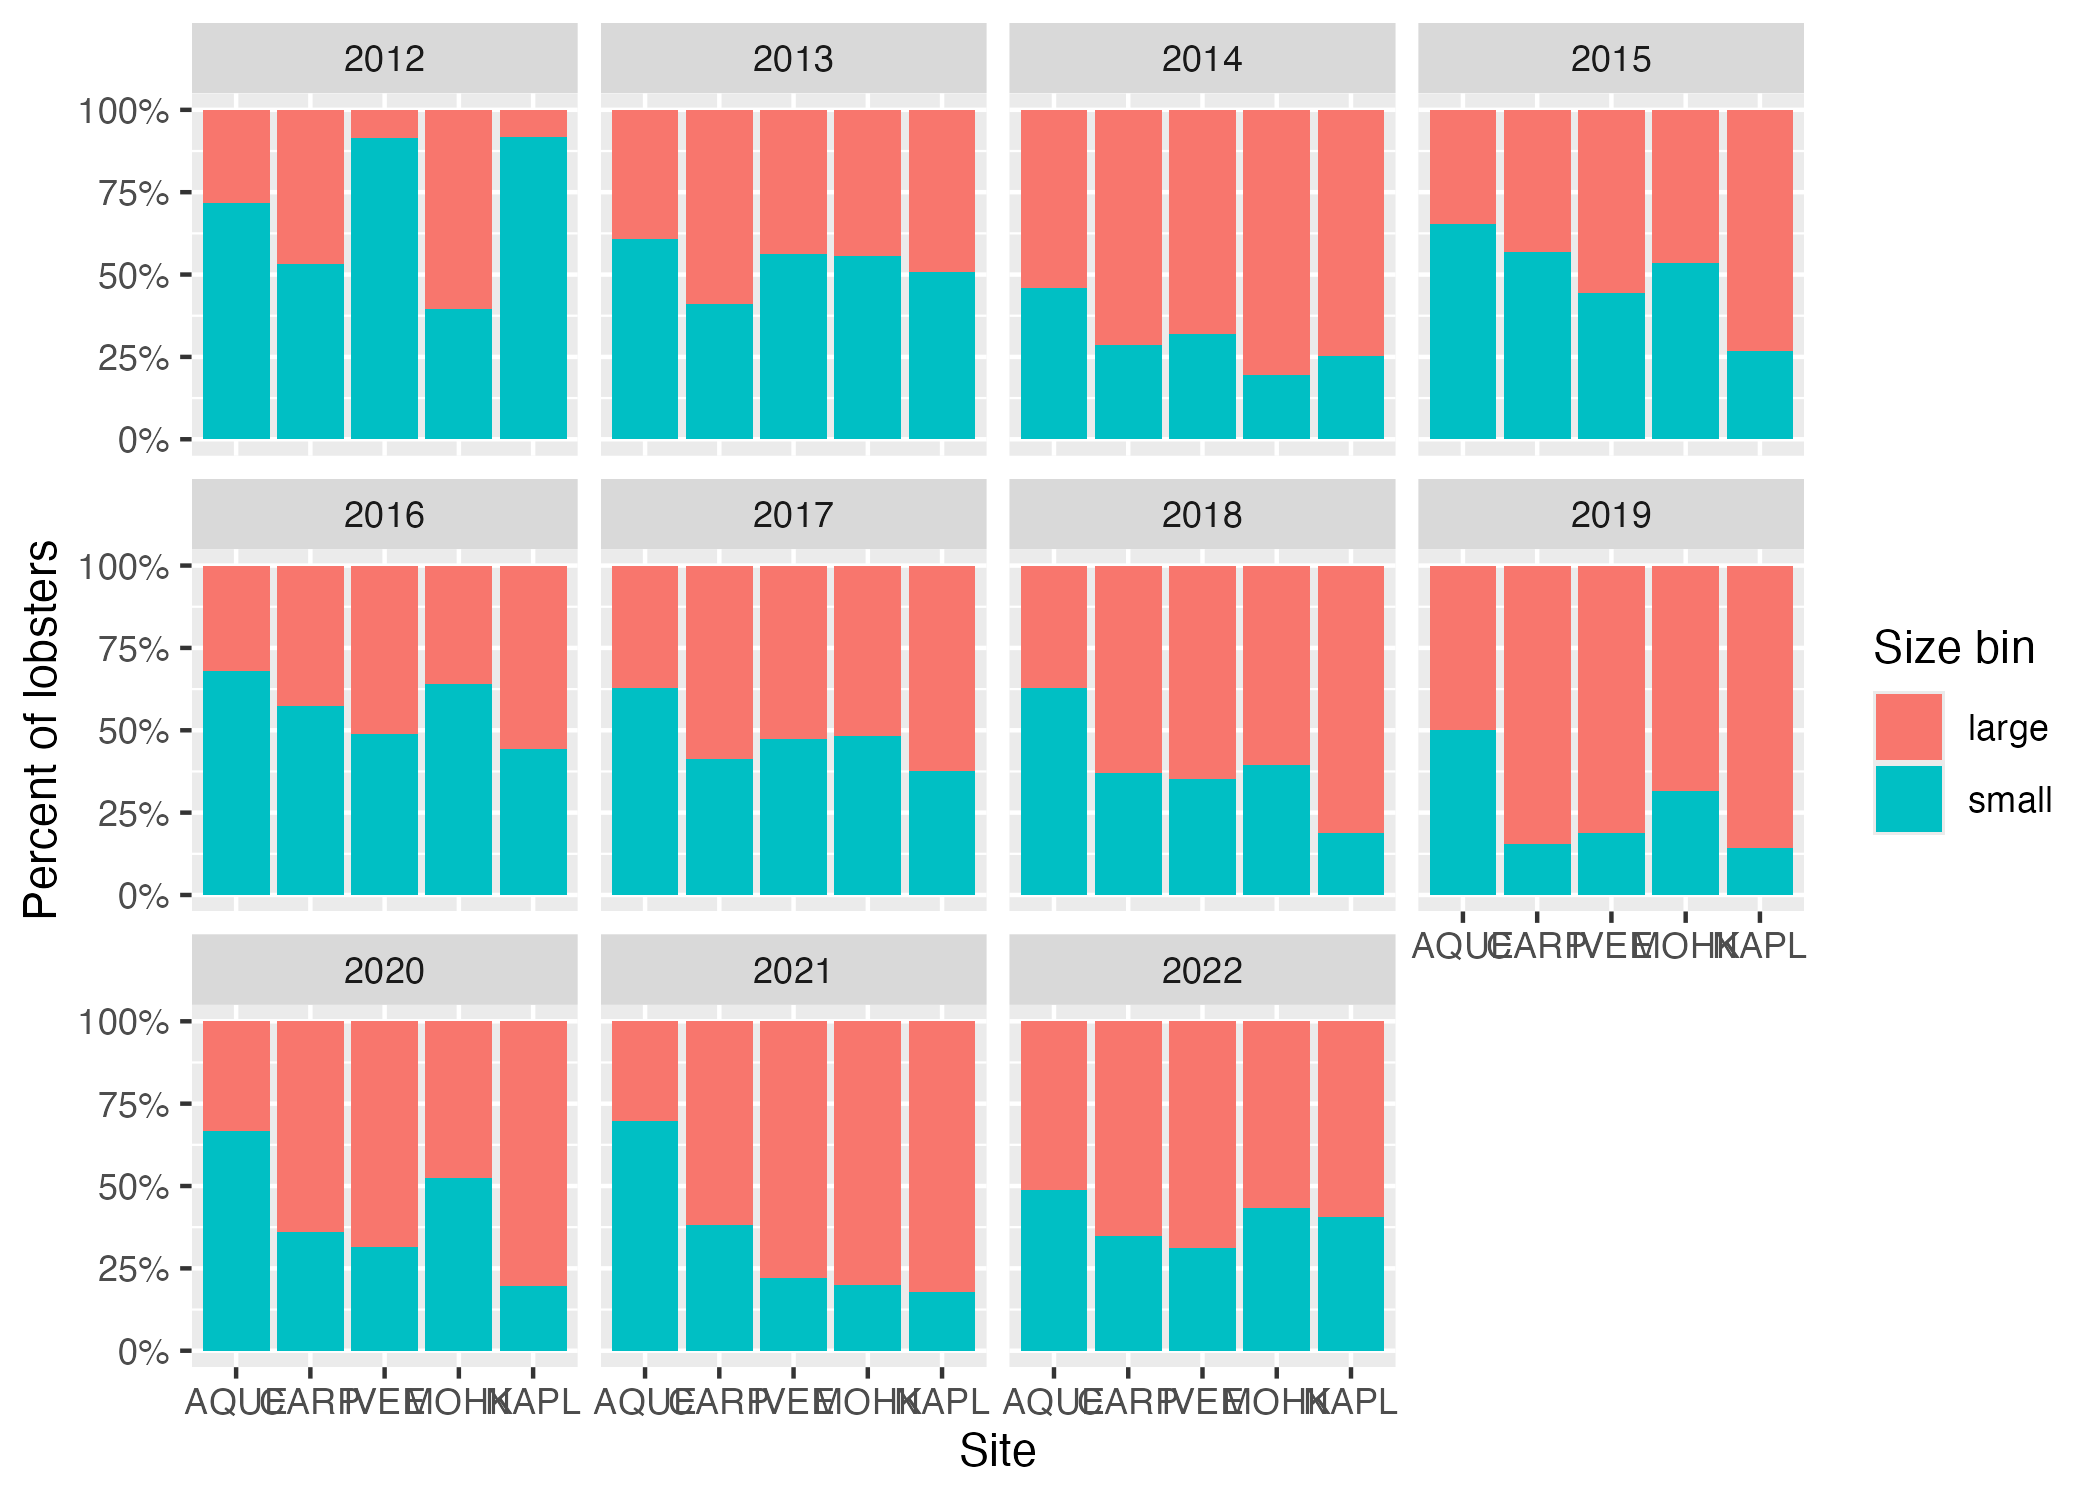
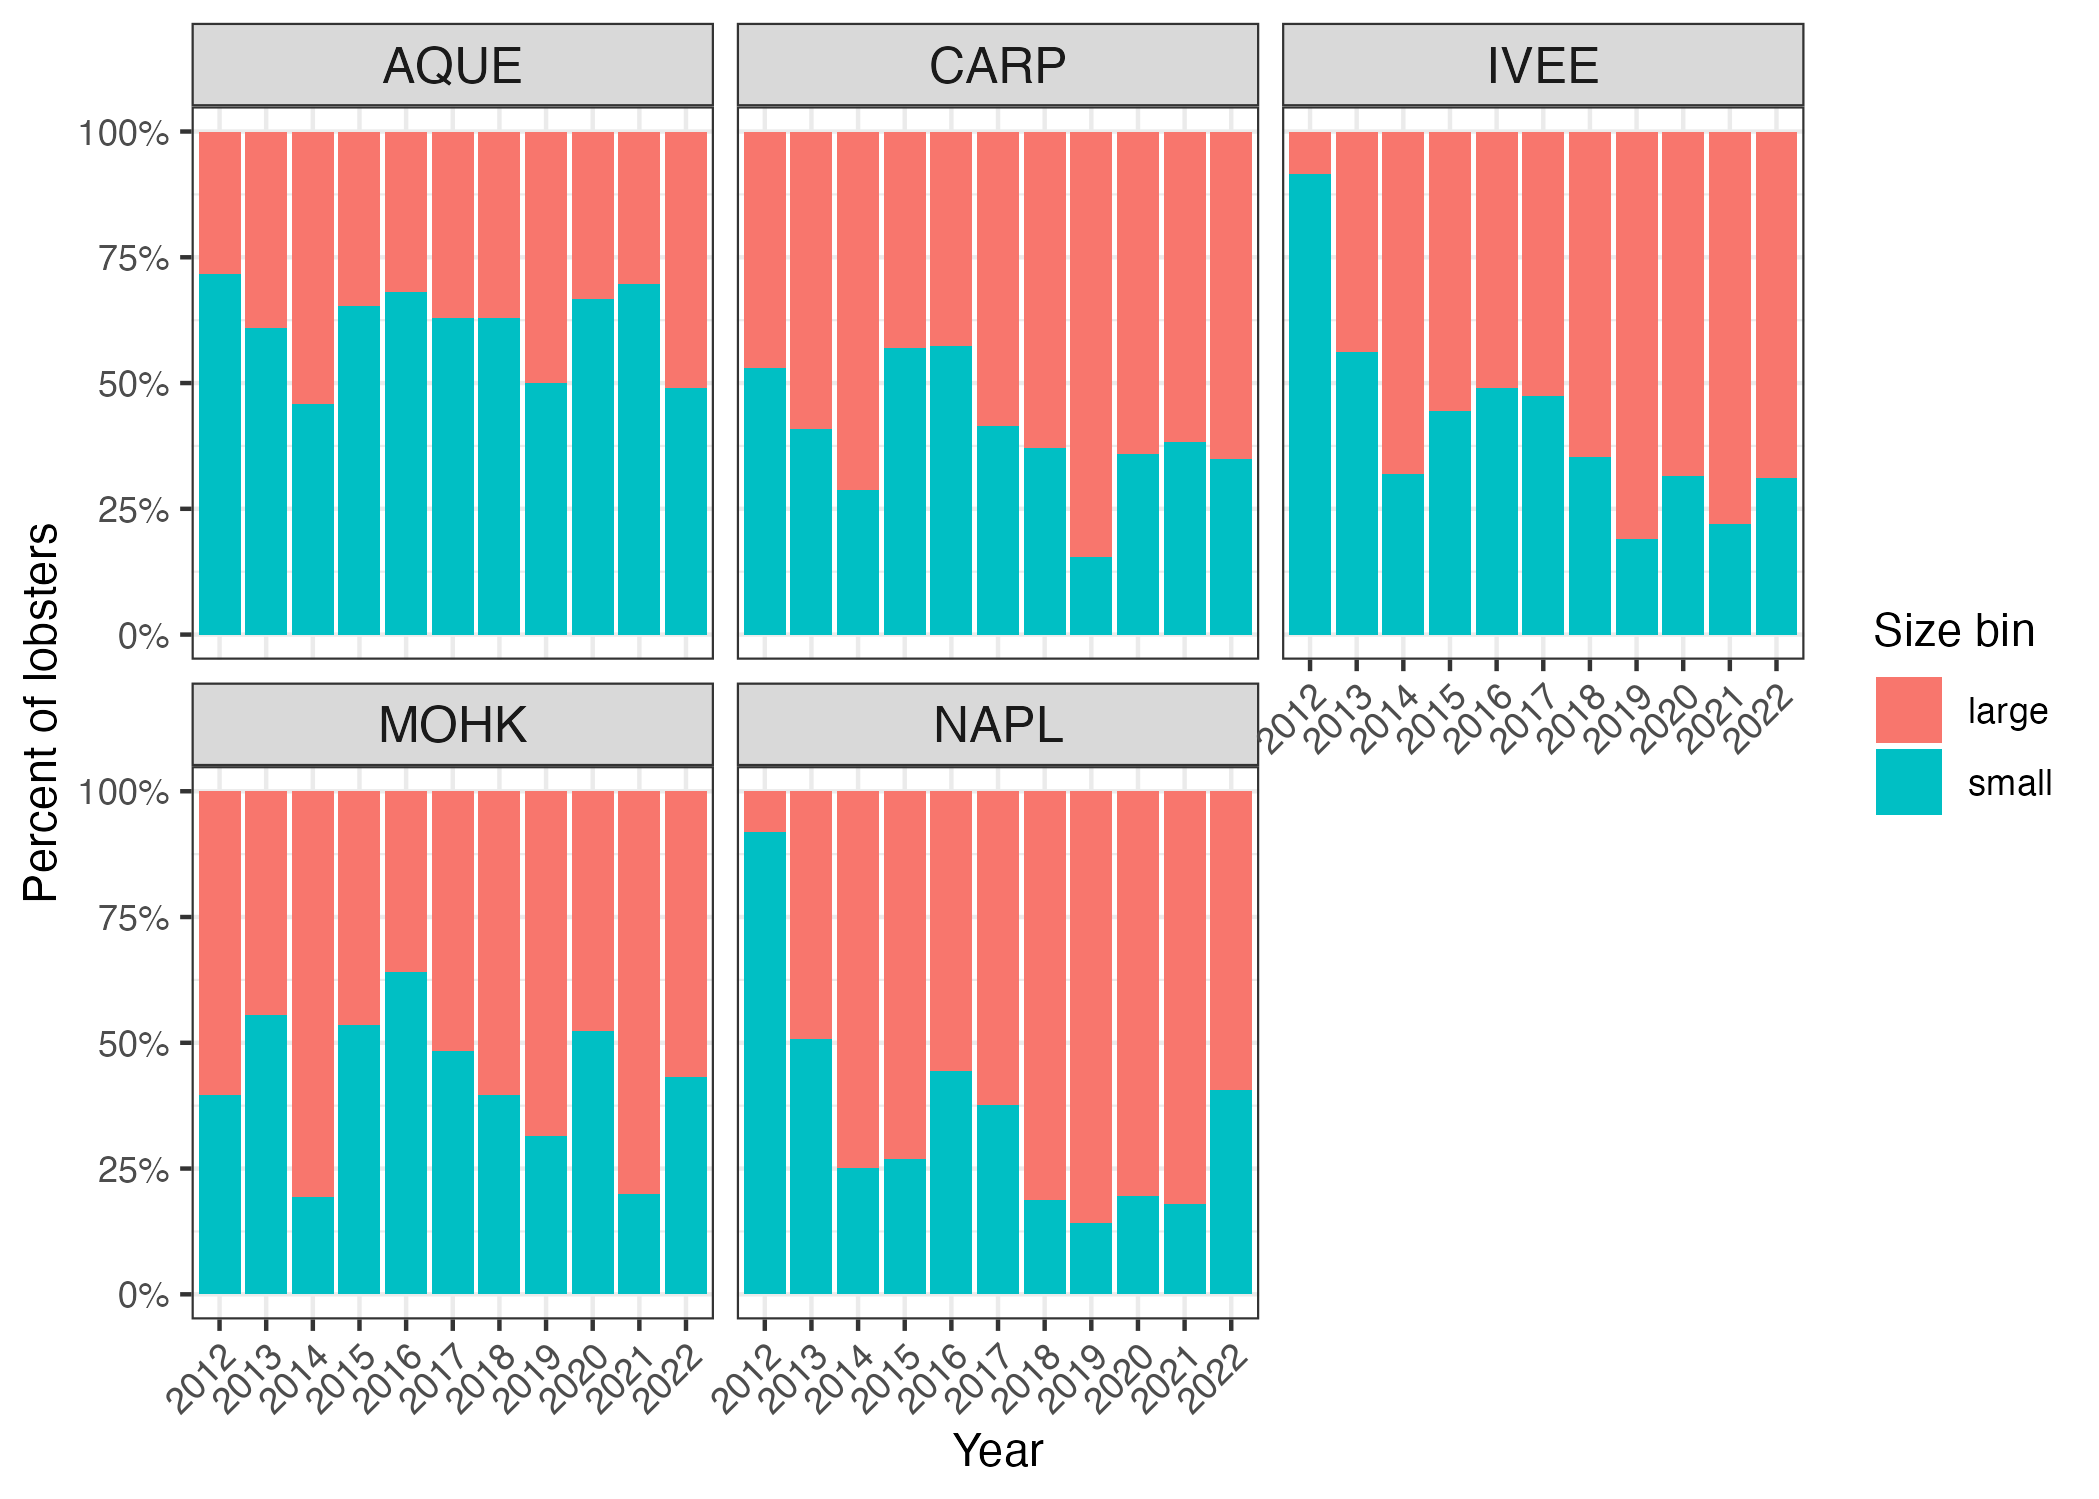
make graphs easier to read

diff --git a/analysis/lobster-report.html b/analysis/lobster-report.html
@@ -213,11 +213,13 @@ date (1): DATE
 <span id="cb14-5"><a href="#cb14-5" aria-hidden="true" tabindex="-1"></a></span>
 <span id="cb14-6"><a href="#cb14-6" aria-hidden="true" tabindex="-1"></a><span class="co">#plot it</span></span>
 <span id="cb14-7"><a href="#cb14-7" aria-hidden="true" tabindex="-1"></a><span class="fu">ggplot</span>(lobster_size_lrg_year,</span>
-<span id="cb14-8"><a href="#cb14-8" aria-hidden="true" tabindex="-1"></a>       <span class="fu">aes</span>(<span class="at">x =</span> SITE, <span class="at">y =</span> COUNT, <span class="at">fill =</span> SIZE_BIN)) <span class="sc">+</span></span>
+<span id="cb14-8"><a href="#cb14-8" aria-hidden="true" tabindex="-1"></a>       <span class="fu">aes</span>(<span class="at">x =</span> YEAR, <span class="at">y =</span> COUNT, <span class="at">fill =</span> SIZE_BIN)) <span class="sc">+</span></span>
 <span id="cb14-9"><a href="#cb14-9" aria-hidden="true" tabindex="-1"></a>  <span class="fu">geom_col</span>(<span class="at">position =</span> <span class="st">"fill"</span>) <span class="sc">+</span></span>
-<span id="cb14-10"><a href="#cb14-10" aria-hidden="true" tabindex="-1"></a>  <span class="fu">facet_wrap</span>(<span class="sc">~</span> YEAR) <span class="sc">+</span></span>
+<span id="cb14-10"><a href="#cb14-10" aria-hidden="true" tabindex="-1"></a>  <span class="fu">facet_wrap</span>(<span class="sc">~</span> SITE) <span class="sc">+</span></span>
 <span id="cb14-11"><a href="#cb14-11" aria-hidden="true" tabindex="-1"></a>  <span class="fu">scale_y_continuous</span>(<span class="at">labels =</span> scales<span class="sc">::</span>percent) <span class="sc">+</span></span>
-<span id="cb14-12"><a href="#cb14-12" aria-hidden="true" tabindex="-1"></a>  <span class="fu">labs</span>(<span class="at">x =</span> <span class="st">"Site"</span>,<span class="at">y =</span> <span class="st">"Percent of lobsters"</span>,<span class="at">fill =</span> <span class="st">"Size bin"</span>)</span></code></pre></div><button title="Copy to Clipboard" class="code-copy-button"><i class="bi"></i></button></div>
+<span id="cb14-12"><a href="#cb14-12" aria-hidden="true" tabindex="-1"></a>  <span class="fu">labs</span>(<span class="at">x =</span> <span class="st">"Year"</span>,<span class="at">y =</span> <span class="st">"Percent of lobsters"</span>,<span class="at">fill =</span> <span class="st">"Size bin"</span>) <span class="sc">+</span></span>
+<span id="cb14-13"><a href="#cb14-13" aria-hidden="true" tabindex="-1"></a>  <span class="fu">theme_bw</span>() <span class="sc">+</span></span>
+<span id="cb14-14"><a href="#cb14-14" aria-hidden="true" tabindex="-1"></a>  <span class="fu">theme</span>(<span class="at">axis.text.x =</span> <span class="fu">element_text</span>(<span class="at">angle =</span> <span class="dv">45</span>, <span class="at">hjust =</span> <span class="dv">1</span>),<span class="at">strip.text =</span> <span class="fu">element_text</span>(<span class="at">size =</span> <span class="dv">12</span>),<span class="at">legend.position =</span> <span class="st">"right"</span>)</span></code></pre></div><button title="Copy to Clipboard" class="code-copy-button"><i class="bi"></i></button></div>
 <div class="cell-output-display">
 <div>
 <figure class="figure">
